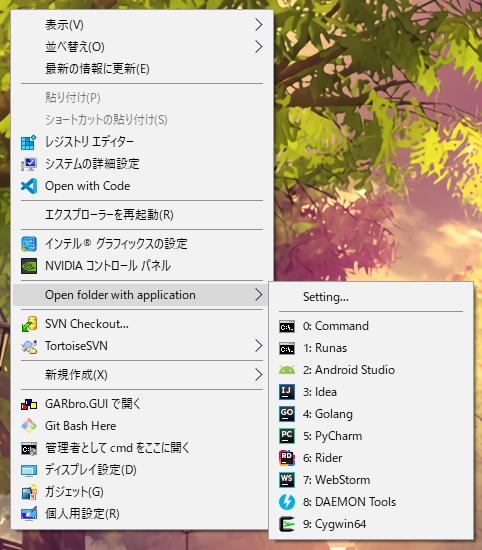
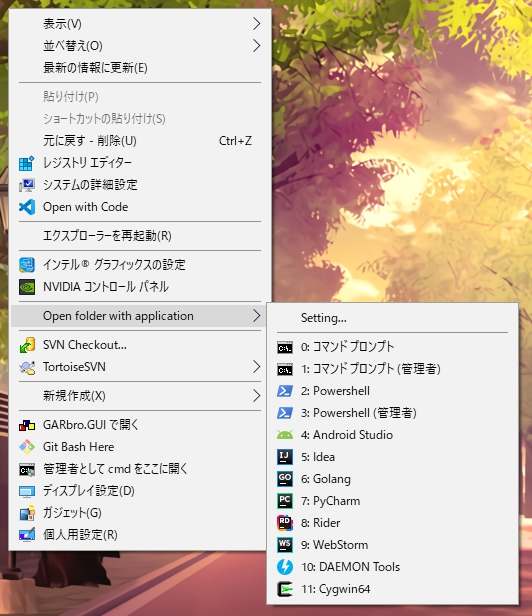
feat(lang): use tChar to support CJK

diff --git a/RegUtil.hpp b/RegUtil.hpp
@@ -29,8 +29,8 @@ public:
     }
 
     static std::pair<std::wstring, LONG> readRegSz(HKEY hKey, const std::wstring &val, const std::wstring &def) {
-        WCHAR buf[REG_SZ_MAX];
-        DWORD bufSize = sizeof(buf);
+        TCHAR buf[REG_SZ_MAX];
+        DWORD bufSize = sizeof(buf) / sizeof(buf[0]);
         // RegQueryValueExW(HKEY hKey, LPCWSTR lpValueName, LPDWORD lpReserved, LPDWORD lpType, LPBYTE lpData, LPDWORD lpcbData);
         ULONG nError = RegQueryValueEx(hKey, val.c_str(), nullptr, nullptr, (LPBYTE) buf, &bufSize);
         return std::make_pair<std::wstring, LONG>(ERROR_SUCCESS == nError ? buf : def, nError);
